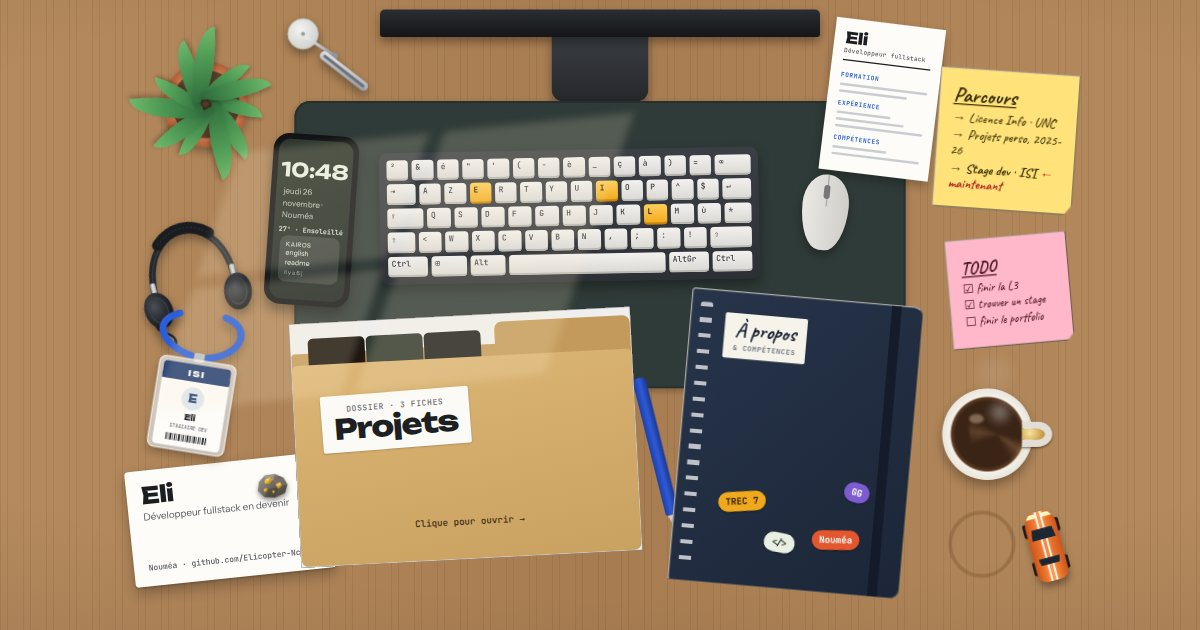
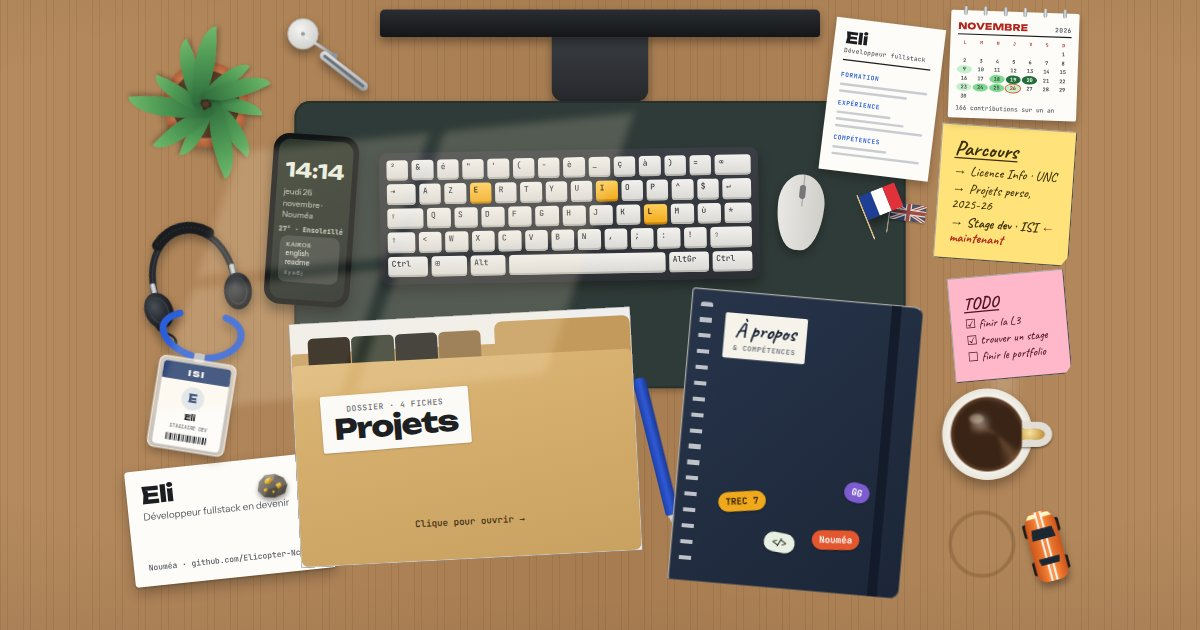
Calendrier mensuel façon vrai calendrier,Nouvelle image d'aperçu

diff --git a/js/calendar.js b/js/calendar.js
@@ -5,7 +5,7 @@ import {GITHUB_URL} from "./data.js";
 import {isEn, locale} from "./i18n.js";
 
 const USER = GITHUB_URL.split("/").pop();
-const CACHE = "eli-portfolio-contribs";
+const CACHE = "eli-portfolio-contribs-v2";   // changer le nom si le format des données change
 let data = null;          // {byDate: {"2026-11-26": {count, level}}, total}
 let page = null;          // mois affiché en gros plan : {y, m} (m de 0 à 11)
 
@@ -27,7 +27,7 @@ function monthCells(y, m) {
   return Array.from({length: total}, (_, i) => {
     const d = new Date(y, m, i - first + 1);
     const key = iso(d.getFullYear(), d.getMonth(), d.getDate());
-    return {day: d.getDate(), key, out: d.getMonth() !== m, we: (i % 7) >= 5, c: data?.byDate[key]};
+    return {day: d.getDate(), key, out: d.getMonth() !== m, we: (i % 7) >= 5, c: data?.byDate?.[key]};
   });
 }
 
@@ -42,7 +42,7 @@ function renderDesk() {
     `<i class="${c.out ? "out" : ""}${c.key === t ? " today" : ""}" data-l="${c.c?.level || 0}">${c.day}</i>`).join("");
   document.getElementById("cal-grid").innerHTML = head + cells;
   document.getElementById("cal-foot").textContent = data
-    ? (isEn() ? `${data.total} GitHub contributions this year` : `${data.total} contributions GitHub sur un an`)
+    ? (isEn() ? `${data.total} contributions this year` : `${data.total} contributions sur un an`)
     : "GitHub";
 }
 
@@ -95,7 +95,8 @@ export function openCalendar(src, openOverlay) {
 async function load() {
   try {
     const c = JSON.parse(sessionStorage.getItem(CACHE) || "null");
-    if (c && Date.now() - c.at < 60 * 60 * 1000) return c.data;
+    // on ne réutilise le cache que s'il a le bon format
+    if (c && Date.now() - c.at < 60 * 60 * 1000 && c.data?.byDate) return c.data;
   } catch (e) {}
   const r = await (await fetch(`https://github-contributions-api.jogruber.de/v4/${USER}?y=last`)).json();
   const byDate = {};

diff --git a/css/style.css b/css/style.css
@@ -431,7 +431,7 @@ button{font:inherit;color:inherit}
 .cal-big .cm-grid{display:grid;grid-template-columns:repeat(7,1fr);gap:4px}
 .cal-big .cm-day{position:relative;min-height:clamp(46px,8vw,74px);border-top:2px solid #e3e1da;padding:6px;display:flex;flex-direction:column;justify-content:space-between;background:#fff;border-radius:2px}
 .cal-big .cm-day.out{background:none;border-top-color:transparent}
-.cal-big .cm-day.out b{color:#c9ccd1}
+.cal-big .cm-day.out b,.cal-big .cm-day.out.we b{color:#c9ccd1}
 .cal-big .cm-day b{font:700 clamp(14px,2.2vw,20px)/1 var(--font-display);color:#1b1d20}
 .cal-big .cm-day.we b{color:#b3261e}
 .cal-big .cm-day small{font:500 10.5px var(--font-mono);color:#1f5f33;white-space:nowrap;overflow:hidden;text-overflow:ellipsis}
@@ -439,6 +439,7 @@ button{font:inherit;color:inherit}
 .cal-big .cm-day[data-l]:not([data-l="0"]){border-top-color:#30a14e}
 /* aujourd'hui : entouré au feutre rouge */
 .cal-big .cm-day.today::after{content:"";position:absolute;left:2px;top:2px;width:34px;height:30px;border:2.5px solid #e4572e;border-radius:50% 45% 55% 48%;transform:rotate(-8deg)}
+.cal-big footer{display:flex;flex-wrap:wrap;justify-content:space-between;align-items:center;gap:12px;font:500 14px var(--font-body);color:#55595f}
 .cal-big footer .cm-sum b{color:#1b1d20}
 @media (max-width:560px){.cal-big .cm-day small{display:none}.cal-big .cm-week{font-size:10px;letter-spacing:0;padding:0 2px}.cal-big .cm-day{padding:4px}.cal-big .cm-day.today::after{width:26px;height:24px}}
 .cal-big footer a{color:#fff;background:#1b1d20;text-decoration:none;font:600 14px var(--font-body);padding:9px 16px;border-radius:999px}
